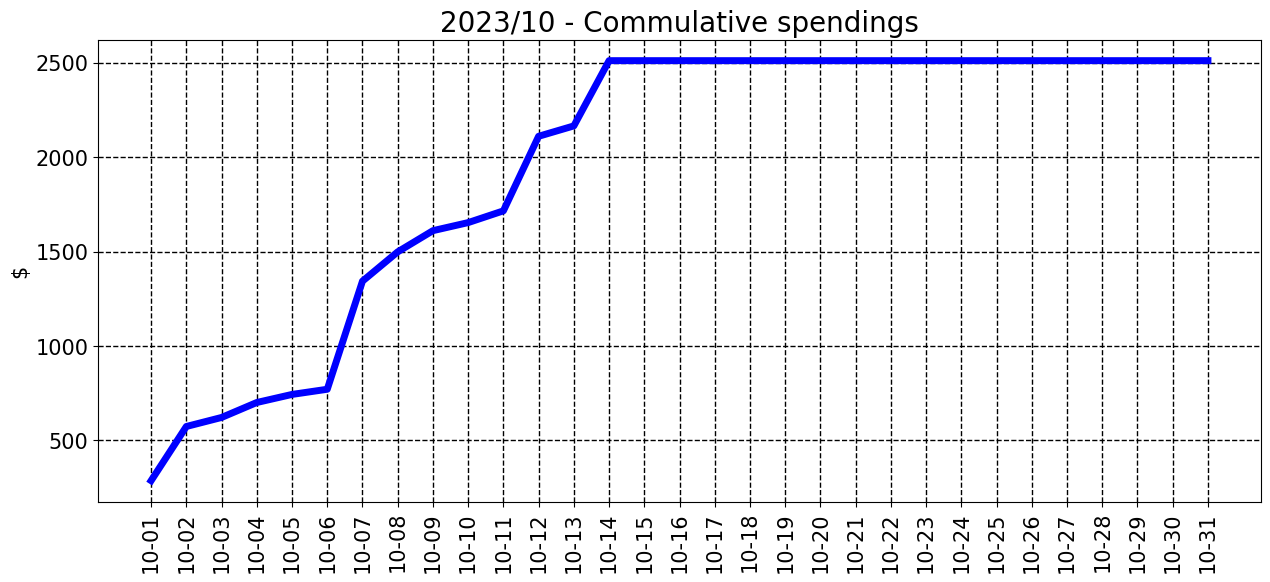
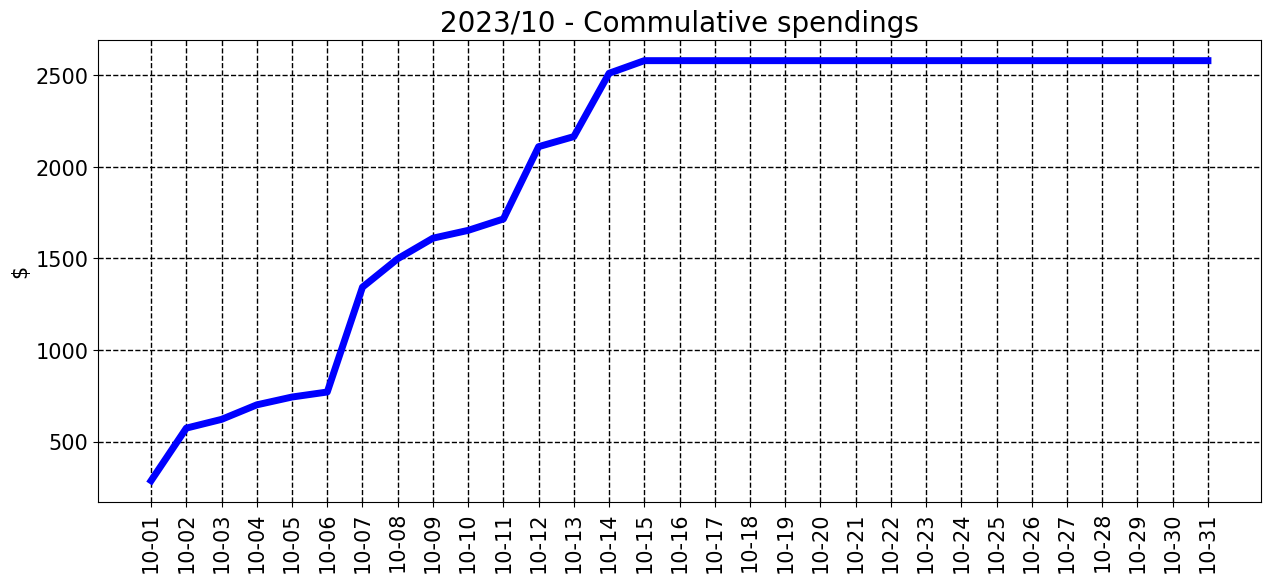
commit from python

Changed region(s): [[0.0307, 0.0928, 1.0, 0.5258], [0.0307, 0.5876, 1.0, 0.7113], [0.0307, 0.7113, 0.9827, 0.7732]]

diff --git a/README.md b/README.md
@@ -7,7 +7,7 @@ __________________________________
 <sub><sup>
 | Spent | Avg daily | End of month projection | Spent since 2023/7 |
 |---|---|---|---|
-| $2511.0  |  $167.4  | $5189.0  |  $17869.0  |
+| $2580.0  |  $172.0  | $5332.0  |  $17938.0  |
 </sub></sup>
 __________________________________
 ![graph_10_sum](graph_10_sum.png)
